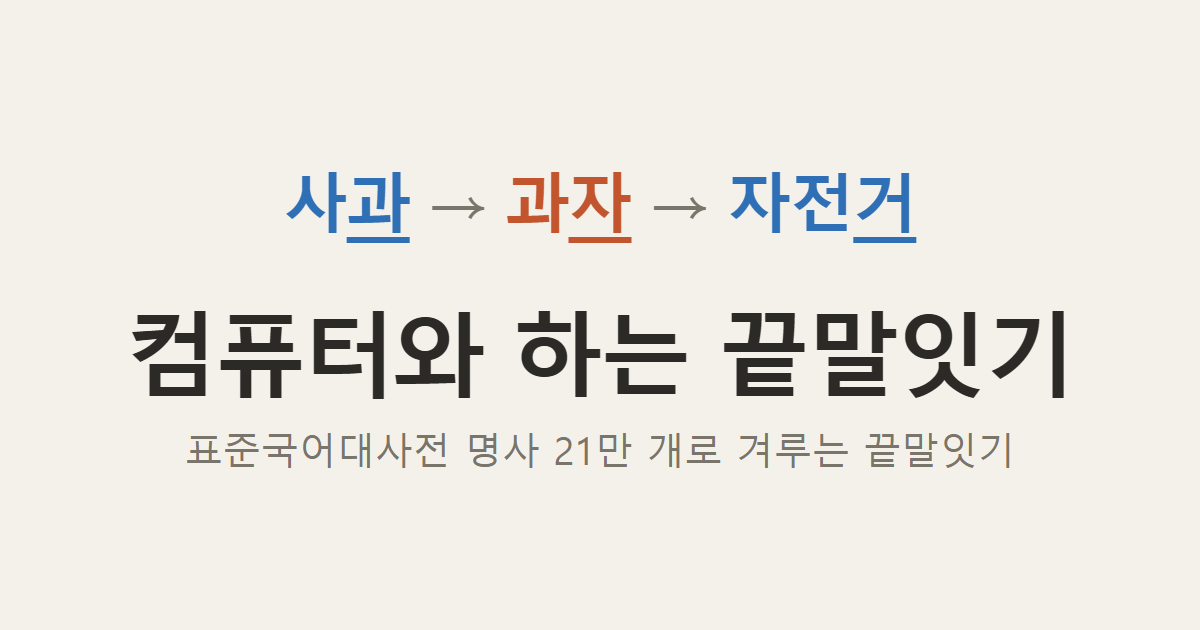
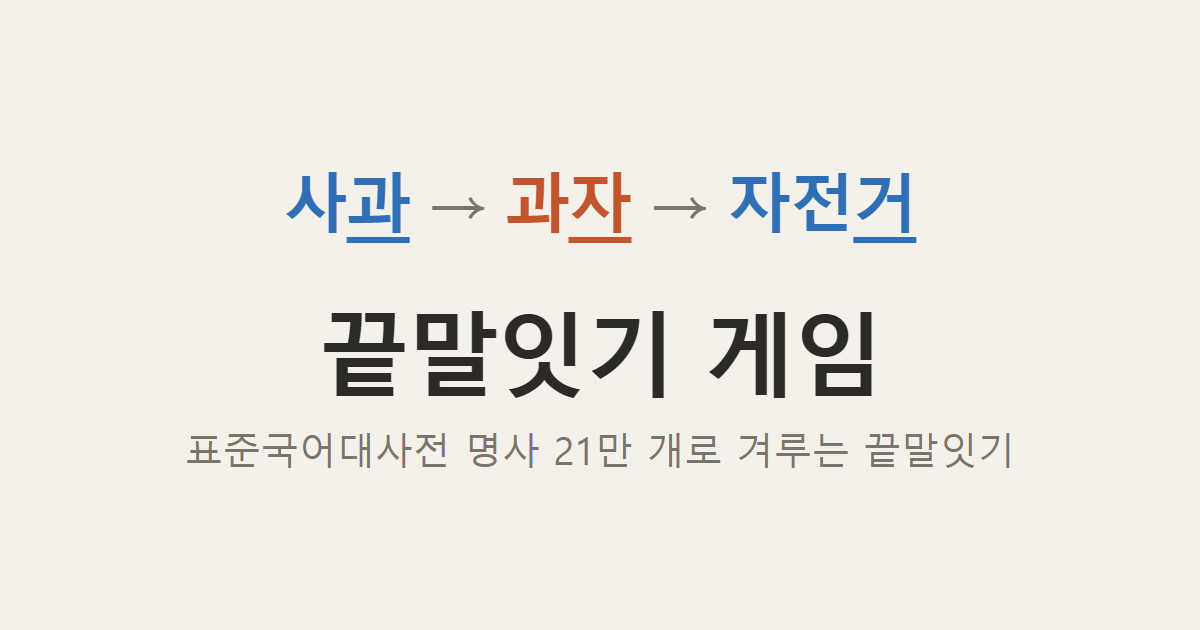
사이트 이름을 '끝말잇기 게임'으로 통일

Changed region(s): [[0.0925, 0.4825, 0.8942, 0.6333]]

diff --git a/guide.html b/guide.html
@@ -3,11 +3,11 @@
 <head>
   <meta charset="UTF-8">
   <meta name="viewport" content="width=device-width, initial-scale=1">
-  <title>게임 방법과 규칙 - 컴퓨터와 하는 끝말잇기</title>
-  <meta name="description" content="컴퓨터와 하는 끝말잇기의 규칙, 두음법칙, 난이도 8단계, 한방단어와 '치사한 짓 하기'의 W+2, L-3 표기를 읽는 법, 컴퓨터를 이기는 요령을 정리했습니다.">
+  <title>게임 방법과 규칙 - 끝말잇기 게임</title>
+  <meta name="description" content="끝말잇기 게임의 규칙, 두음법칙, 난이도 8단계, 한방단어와 '치사한 짓 하기'의 W+2, L-3 표기를 읽는 법, 컴퓨터를 이기는 요령을 정리했습니다.">
   <link rel="canonical" href="https://sunya0804.github.io/kkeunmal/guide.html">
   <meta property="og:type" content="article">
-  <meta property="og:site_name" content="컴퓨터와 하는 끝말잇기">
+  <meta property="og:site_name" content="끝말잇기 게임">
   <meta property="og:title" content="끝말잇기 게임 방법과 규칙">
   <meta property="og:description" content="규칙, 두음법칙, 난이도, 한방단어, 컴퓨터를 이기는 요령">
   <meta property="og:url" content="https://sunya0804.github.io/kkeunmal/guide.html">
@@ -20,7 +20,7 @@
   <main class="app wide">
     <header>
       <h1>게임 방법과 규칙</h1>
-      <p class="sub">컴퓨터와 하는 끝말잇기를 처음 해 보는 분을 위한 안내</p>
+      <p class="sub">끝말잇기 게임을 처음 해 보는 분을 위한 안내</p>
       <nav class="nav">
         <a href="index.html">게임</a>
         <a href="guide.html" aria-current="page">게임 방법</a>

diff --git a/index.html b/index.html
@@ -3,12 +3,12 @@
 <head>
   <meta charset="UTF-8">
   <meta name="viewport" content="width=device-width, initial-scale=1">
-  <title>컴퓨터와 하는 끝말잇기 - 표준국어대사전 명사로 겨루는 끝말잇기 게임</title>
+  <title>끝말잇기 게임 - 표준국어대사전 명사로 컴퓨터와 겨루기</title>
   <meta name="description" content="표준국어대사전 명사 21만 개로 컴퓨터와 겨루는 끝말잇기 게임입니다. 설치 없이 브라우저에서 바로 할 수 있고, 난이도 8단계와 한방단어 분석 기능이 있습니다.">
   <link rel="canonical" href="https://sunya0804.github.io/kkeunmal/">
   <meta property="og:type" content="website">
-  <meta property="og:site_name" content="컴퓨터와 하는 끝말잇기">
-  <meta property="og:title" content="컴퓨터와 하는 끝말잇기">
+  <meta property="og:site_name" content="끝말잇기 게임">
+  <meta property="og:title" content="끝말잇기 게임">
   <meta property="og:description" content="표준국어대사전 명사 21만 개로 컴퓨터와 겨루는 끝말잇기 게임입니다. 설치 없이 브라우저에서 바로 할 수 있고, 난이도 8단계와 한방단어 분석 기능이 있습니다.">
   <meta property="og:url" content="https://sunya0804.github.io/kkeunmal/">
   <meta property="og:image" content="https://sunya0804.github.io/kkeunmal/og.png">

diff --git a/db.html b/db.html
@@ -3,11 +3,11 @@
 <head>
   <meta charset="UTF-8">
   <meta name="viewport" content="width=device-width, initial-scale=1">
-  <title>끝말잇기 단어 검색과 전체 단어 목록 - 컴퓨터와 하는 끝말잇기</title>
+  <title>끝말잇기 단어 검색과 전체 단어 목록 - 끝말잇기 게임</title>
   <meta name="description" content="끝말잇기에 쓸 수 있는 표준국어대사전 명사 21만 개를 가나다순으로 볼 수 있습니다. 단어를 검색하면 그 뒤에 이을 수 있는 단어가 이기기에 유리한 순서로 나옵니다.">
   <link rel="canonical" href="https://sunya0804.github.io/kkeunmal/db.html">
   <meta property="og:type" content="website">
-  <meta property="og:site_name" content="컴퓨터와 하는 끝말잇기">
+  <meta property="og:site_name" content="끝말잇기 게임">
   <meta property="og:title" content="끝말잇기 단어 검색과 전체 단어 목록">
   <meta property="og:description" content="끝말잇기에 쓸 수 있는 표준국어대사전 명사 21만 개를 가나다순으로 볼 수 있습니다. 단어를 검색하면 그 뒤에 이을 수 있는 단어가 이기기에 유리한 순서로 나옵니다.">
   <meta property="og:url" content="https://sunya0804.github.io/kkeunmal/db.html">

diff --git a/hanbang.html b/hanbang.html
@@ -3,11 +3,11 @@
 <head>
   <meta charset="UTF-8">
   <meta name="viewport" content="width=device-width, initial-scale=1">
-  <title>끝말잇기 한방단어 목록 1,209개 - 컴퓨터와 하는 끝말잇기</title>
+  <title>끝말잇기 한방단어 목록 1,209개 - 끝말잇기 게임</title>
   <meta name="description" content="표준국어대사전 명사 기준 끝말잇기 한방단어 1,209개를 끝 글자별로 정리했습니다. 꾼, 것, 슨, 륨, 늄처럼 이을 단어가 없는 글자로 끝나는 단어 모음입니다.">
   <link rel="canonical" href="https://sunya0804.github.io/kkeunmal/hanbang.html">
   <meta property="og:type" content="website">
-  <meta property="og:site_name" content="컴퓨터와 하는 끝말잇기">
+  <meta property="og:site_name" content="끝말잇기 게임">
   <meta property="og:title" content="끝말잇기 한방단어 목록 1,209개">
   <meta property="og:description" content="표준국어대사전 명사 기준 한방단어를 끝 글자별로 정리했습니다.">
   <meta property="og:url" content="https://sunya0804.github.io/kkeunmal/hanbang.html">

diff --git a/tools/build_hanbang.py b/tools/build_hanbang.py
@@ -56,11 +56,11 @@ PAGE = """<!DOCTYPE html>
 <head>
   <meta charset="UTF-8">
   <meta name="viewport" content="width=device-width, initial-scale=1">
-  <title>끝말잇기 한방단어 목록 {total:,}개 - 컴퓨터와 하는 끝말잇기</title>
+  <title>끝말잇기 한방단어 목록 {total:,}개 - 끝말잇기 게임</title>
   <meta name="description" content="표준국어대사전 명사 기준 끝말잇기 한방단어 {total:,}개를 끝 글자별로 정리했습니다. 꾼, 것, 슨, 륨, 늄처럼 이을 단어가 없는 글자로 끝나는 단어 모음입니다.">
   <link rel="canonical" href="{site}hanbang.html">
   <meta property="og:type" content="website">
-  <meta property="og:site_name" content="컴퓨터와 하는 끝말잇기">
+  <meta property="og:site_name" content="끝말잇기 게임">
   <meta property="og:title" content="끝말잇기 한방단어 목록 {total:,}개">
   <meta property="og:description" content="표준국어대사전 명사 기준 한방단어를 끝 글자별로 정리했습니다.">
   <meta property="og:url" content="{site}hanbang.html">
